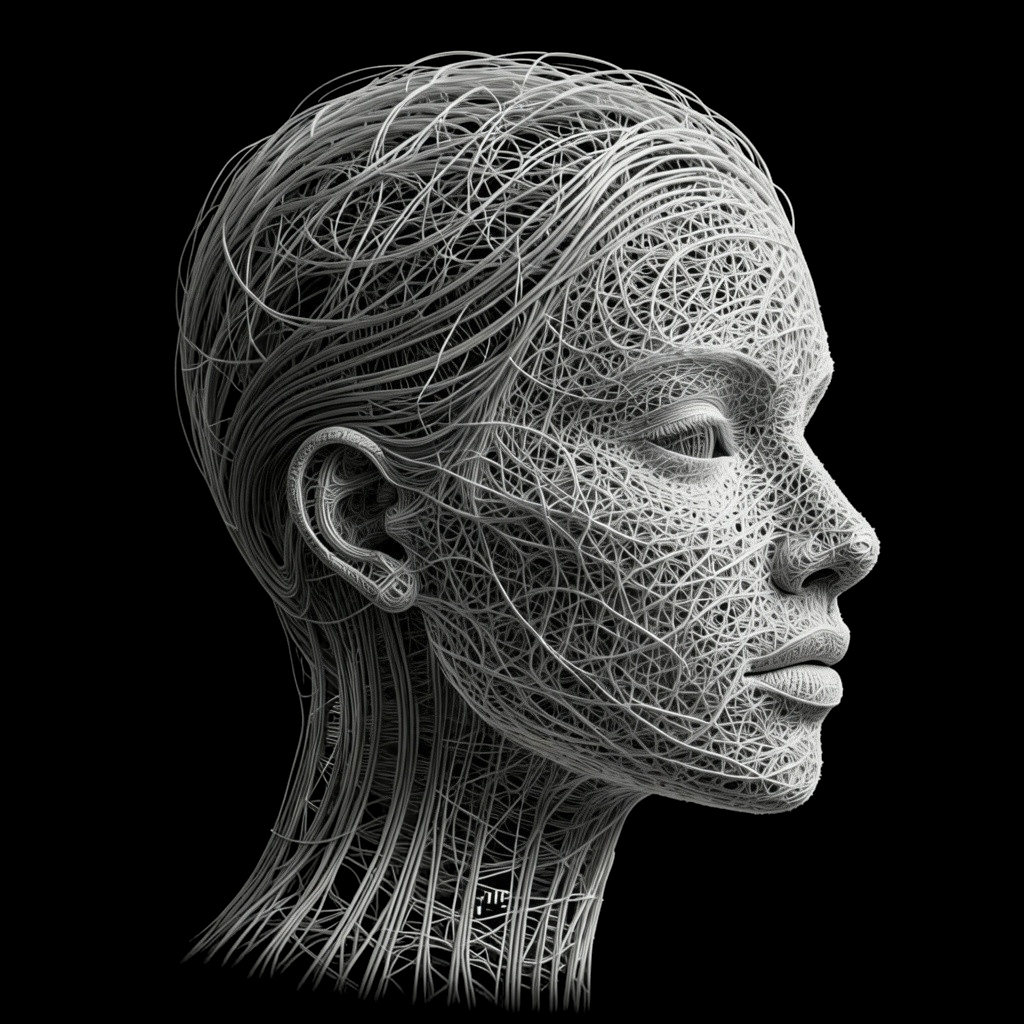
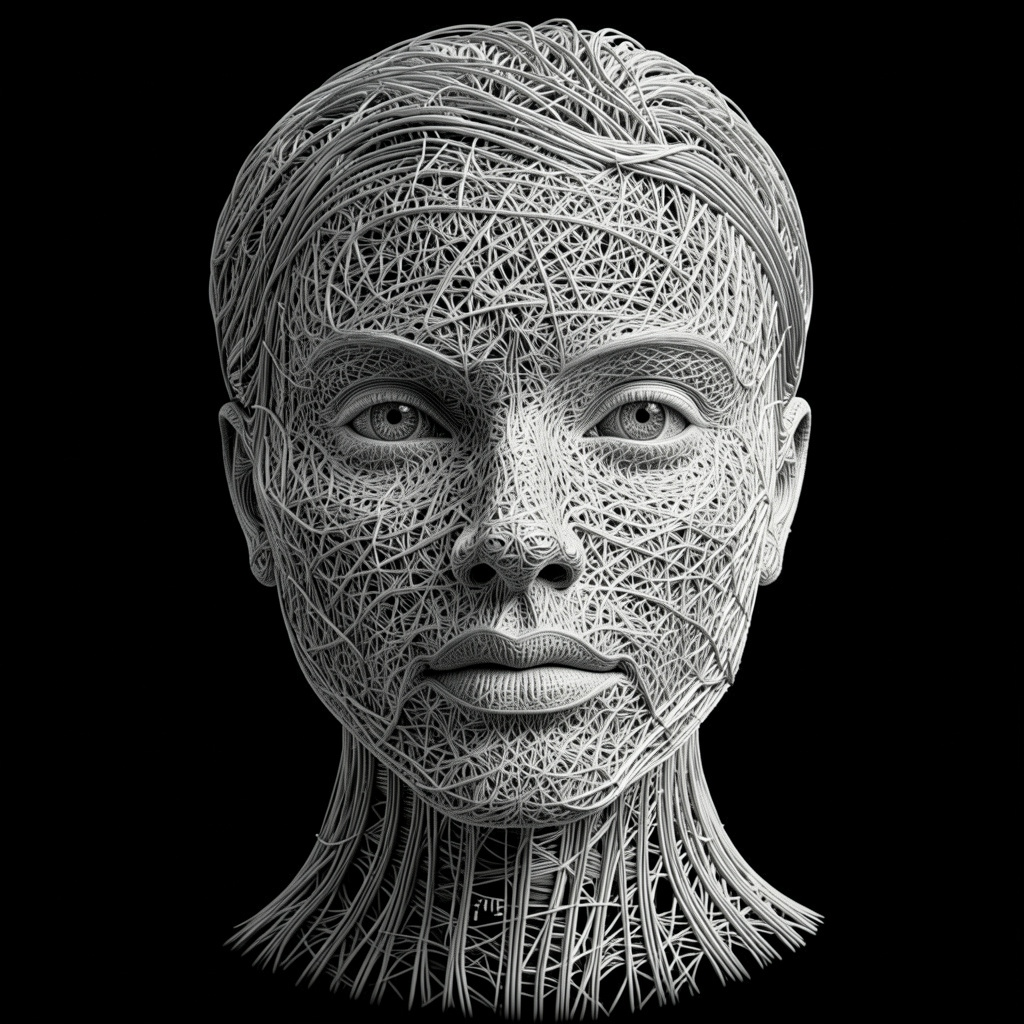
Replace profile wireframe head with front-facing 3D head image, neutral mouth, and blinking/winking front eyes

diff --git a/components/HomePage.tsx b/components/HomePage.tsx
@@ -77,51 +77,68 @@ function FeaturedCard({ post }: { post: Post }) {
 
 const MediumIllustration = () => (
   <div className="three-d-container" style={{ position: "relative", width: "100%", height: "100%", minHeight: 380, display: "flex", justifyContent: "center", alignItems: "center" }}>
-    {/* 1. Base 3D Head image with brand gradient mask */}
-    <div className="three-d-head" />
-
-    {/* 2. Interactive SVG overlay for winking, smiling, and scanning */}
-    <svg viewBox="0 0 400 400" className="three-d-overlay" style={{ position: "absolute", top: 0, left: 0, width: "100%", height: "100%", pointerEvents: "none" }}>
+    {/* SVG Filter for precise color matrix mapping & glow */}
+    <svg width="0" height="0" style={{ position: "absolute" }}>
       <defs>
-        <linearGradient id="overlay-glow" x1="0%" y1="0%" x2="100%" y2="100%">
-          <stop offset="0%" stopColor="#8b5cf6" />
-          <stop offset="100%" stopColor="#ec4899" />
-        </linearGradient>
-        <filter id="eye-glow">
-          <feGaussianBlur stdDeviation="2" result="blur" />
+        <filter id="wireframe-glow-filter">
+          {/* Map white lines of grayscale image to brand purple #7c3aed (R=0.49, G=0.23, B=0.93) and black background to transparent */}
+          <feColorMatrix type="matrix" values="
+            0.49 0 0 0 0
+            0    0.23 0 0 0
+            0    0    0.93 0 0
+            1    0    0    0 0
+          " />
+          <feGaussianBlur stdDeviation="1" result="blur" />
           <feMerge>
             <feMergeNode in="blur" />
             <feMergeNode in="SourceGraphic" />
           </feMerge>
         </filter>
       </defs>
+    </svg>
 
-      {/* Mask/Cover for original static eye */}
-      <circle cx="268" cy="170" r="16" fill="var(--brand-light)" className="bg-patch" />
+    {/* 1. Base 3D Head image with glow filter */}
+    <Image 
+      src="/3d-head.jpg" 
+      alt="3D Wireframe Head" 
+      width={400} 
+      height={400} 
+      className="three-d-head" 
+      style={{
+        width: "100%",
+        height: "100%",
+        maxWidth: 400,
+        aspectRatio: 1,
+        objectFit: "contain",
+        filter: "url(#wireframe-glow-filter)",
+      }}
+    />
+
+    {/* 2. Interactive SVG overlay for winking and looking around */}
+    <svg viewBox="0 0 400 400" className="three-d-overlay" style={{ position: "absolute", top: 0, left: 0, width: "100%", height: "100%", pointerEvents: "none" }}>
+      {/* Mask/Cover for original static left eye */}
+      <circle cx="162" cy="165" r="14" fill="var(--brand-light)" className="bg-patch" />
+      {/* Mask/Cover for original static right eye */}
+      <circle cx="238" cy="165" r="14" fill="var(--brand-light)" className="bg-patch" />
       
-      {/* Animated Eye (Profile view, blinking and winking) */}
-      <g className="profile-eye" style={{ transformOrigin: "268px 170px" }}>
-        <path d="M 256 170 Q 268 158 280 170" fill="none" stroke="url(#overlay-glow)" strokeWidth="2.5" strokeLinecap="round" />
-        <path d="M 256 170 Q 268 178 280 170" fill="none" stroke="url(#overlay-glow)" strokeWidth="1" opacity="0.5" />
-        <circle cx="268" cy="170" r="5" fill="none" stroke="url(#overlay-glow)" strokeWidth="1.5" />
-        <circle cx="268" cy="170" r="2.5" fill="#8b5cf6" className="profile-pupil" />
+      {/* Animated Left Eye */}
+      <g className="front-left-eye" style={{ transformOrigin: "162px 165px" }}>
+        <path d="M 150 165 Q 162 154 174 165" fill="none" stroke="#7c3aed" strokeWidth="2.5" strokeLinecap="round" />
+        <path d="M 150 165 Q 162 173 174 165" fill="none" stroke="#7c3aed" strokeWidth="1" opacity="0.5" />
+        <circle cx="162" cy="165" r="5" fill="none" stroke="#7c3aed" strokeWidth="1.5" />
+        <circle cx="162" cy="165" r="2.5" fill="#7c3aed" className="front-pupil" />
       </g>
 
-      {/* Mask/Cover for original static mouth */}
-      <circle cx="295" cy="245" r="18" fill="var(--brand-light)" className="bg-patch" />
-
-      {/* Animated Smiling Mouth */}
-      <path 
-        d="M 282 245 Q 295 248 308 245" 
-        fill="none" 
-        stroke="url(#overlay-glow)" 
-        strokeWidth="3" 
-        strokeLinecap="round" 
-        className="profile-mouth" 
-      />
+      {/* Animated Right Eye (Winks) */}
+      <g className="front-right-eye" style={{ transformOrigin: "238px 165px" }}>
+        <path d="M 226 165 Q 238 154 250 165" fill="none" stroke="#7c3aed" strokeWidth="2.5" strokeLinecap="round" />
+        <path d="M 226 165 Q 238 173 250 165" fill="none" stroke="#7c3aed" strokeWidth="1" opacity="0.5" />
+        <circle cx="238" cy="165" r="5" fill="none" stroke="#7c3aed" strokeWidth="1.5" />
+        <circle cx="238" cy="165" r="2.5" fill="#7c3aed" className="front-pupil" />
+      </g>
 
       {/* 3D Scanning Line */}
-      <line x1="80" y1="0" x2="320" y2="0" stroke="rgba(139, 92, 246, 0.4)" strokeWidth="2" className="scan-line" style={{ filter: "url(#eye-glow)" }} />
+      <line x1="80" y1="0" x2="320" y2="0" stroke="rgba(139, 92, 246, 0.4)" strokeWidth="2" className="scan-line" />
     </svg>
 
     <style dangerouslySetInnerHTML={{ __html: `
@@ -133,17 +150,6 @@ const MediumIllustration = () => (
       }
       
       .three-d-head {
-        width: 100%;
-        height: 100%;
-        background: linear-gradient(135deg, #8b5cf6 0%, #ec4899 100%);
-        -webkit-mask-image: url('/3d-head.jpg');
-        mask-image: url('/3d-head.jpg');
-        -webkit-mask-size: contain;
-        mask-size: contain;
-        -webkit-mask-repeat: no-repeat;
-        mask-repeat: no-repeat;
-        -webkit-mask-position: center;
-        mask-position: center;
         animation: head-float 6s infinite ease-in-out, head-tilt 12s infinite ease-in-out;
       }
 
@@ -171,44 +177,45 @@ const MediumIllustration = () => (
         100% { y1: 320; y2: 320; opacity: 0; }
       }
 
-      .profile-eye {
-        animation: profile-eye-wink 7s infinite ease-in-out;
+      .front-left-eye {
+        animation: front-left-blink 7s infinite ease-in-out;
       }
-      @keyframes profile-eye-wink {
-        0%, 12%, 16%, 72%, 76%, 100% {
+      .front-right-eye {
+        animation: front-right-wink 7s infinite ease-in-out;
+      }
+      .front-pupil {
+        animation: front-pupil-move 7s infinite ease-in-out;
+      }
+
+      @keyframes front-left-blink {
+        0%, 20%, 24%, 76%, 80%, 100% {
           transform: scaleY(1);
         }
-        14%, 74% {
-          transform: scaleY(0.05);
+        22%, 78% {
+          transform: scaleY(0.1);
+        }
+      }
+
+      @keyframes front-right-wink {
+        0%, 20%, 24%, 76%, 80%, 100% {
+          transform: scaleY(1);
+        }
+        22%, 78% {
+          transform: scaleY(0.1);
         }
         38%, 56% {
           transform: scaleY(1);
         }
         42%, 52% {
-          transform: scaleY(0.05);
+          transform: scaleY(0.1);
         }
       }
 
-      .profile-pupil {
-        animation: profile-pupil-move 7s infinite ease-in-out;
-      }
-      @keyframes profile-pupil-move {
+      @keyframes front-pupil-move {
         0%, 25%, 60%, 100% { transform: translate(0, 0); }
         8% { transform: translate(-1.5px, -0.5px); }
         18% { transform: translate(1.5px, -0.5px); }
         42%, 52% { transform: translate(0, 0); }
-      }
-
-      .profile-mouth {
-        animation: profile-mouth-smile 7s infinite ease-in-out;
-      }
-      @keyframes profile-mouth-smile {
-        0%, 35%, 57%, 100% {
-          d: path("M 282 245 Q 295 248 308 245");
-        }
-        42%, 52% {
-          d: path("M 282 242 Q 295 258 308 242");
-        }
       }
 
       .bg-patch {